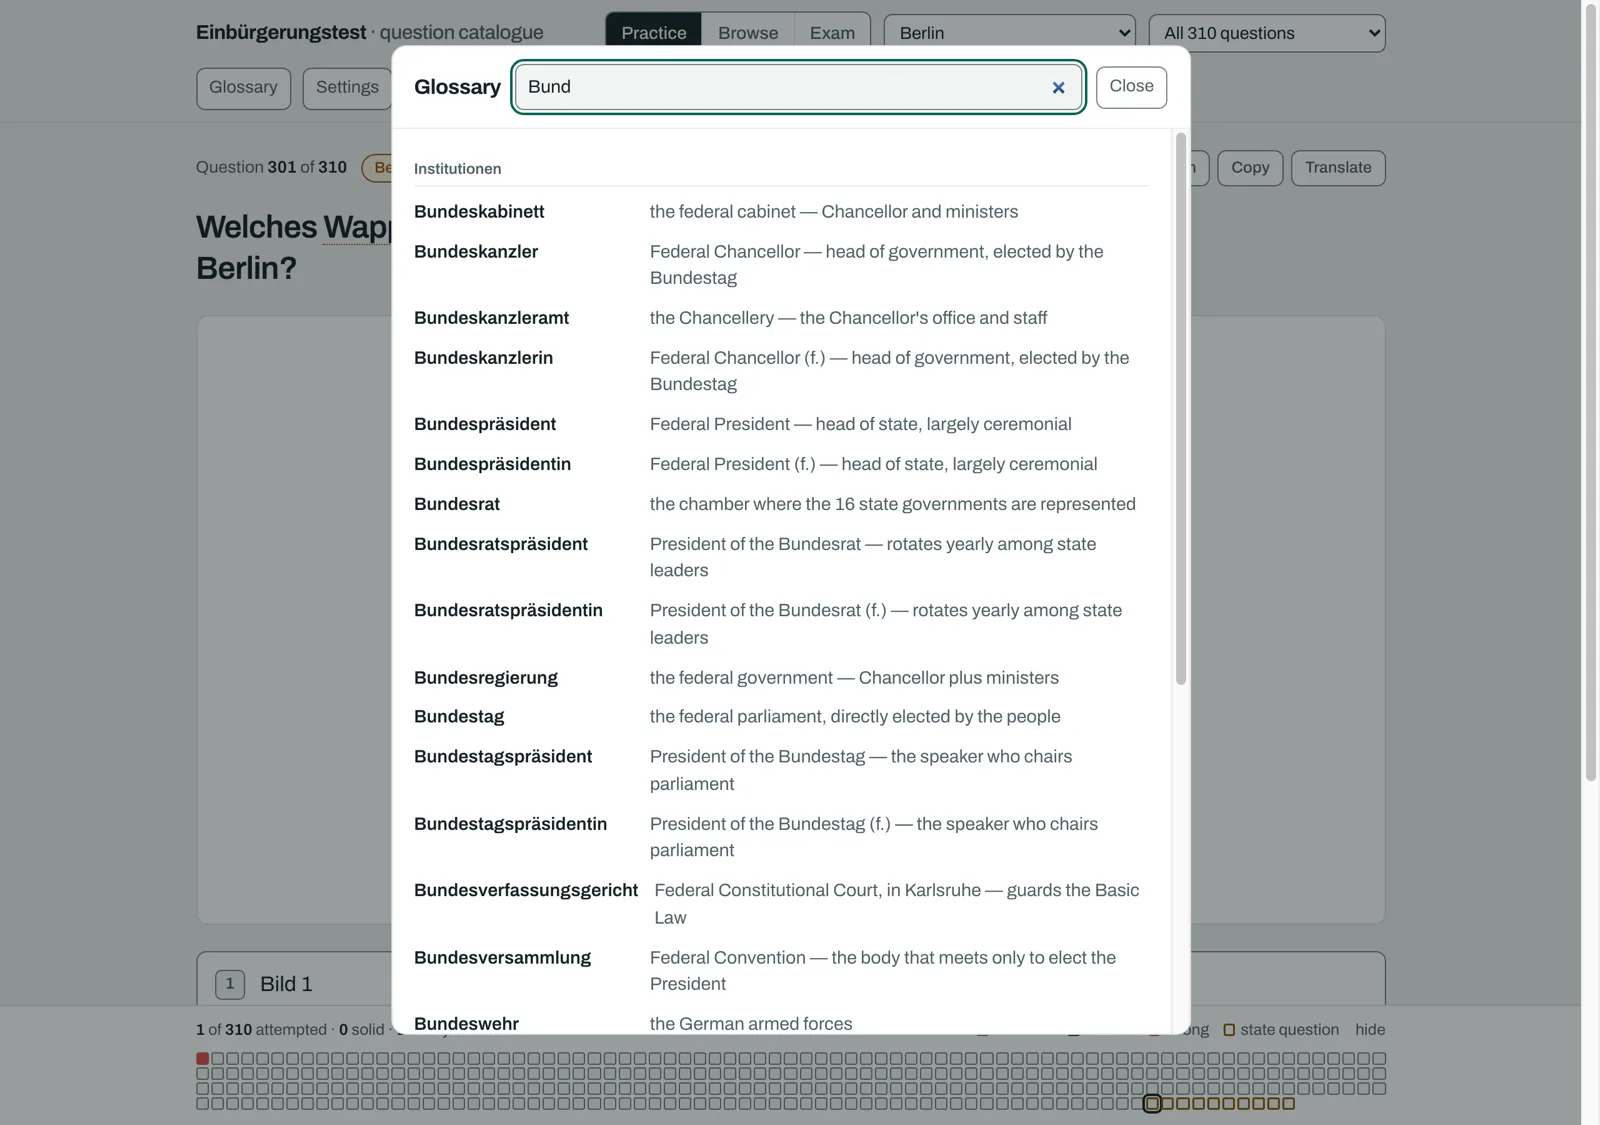
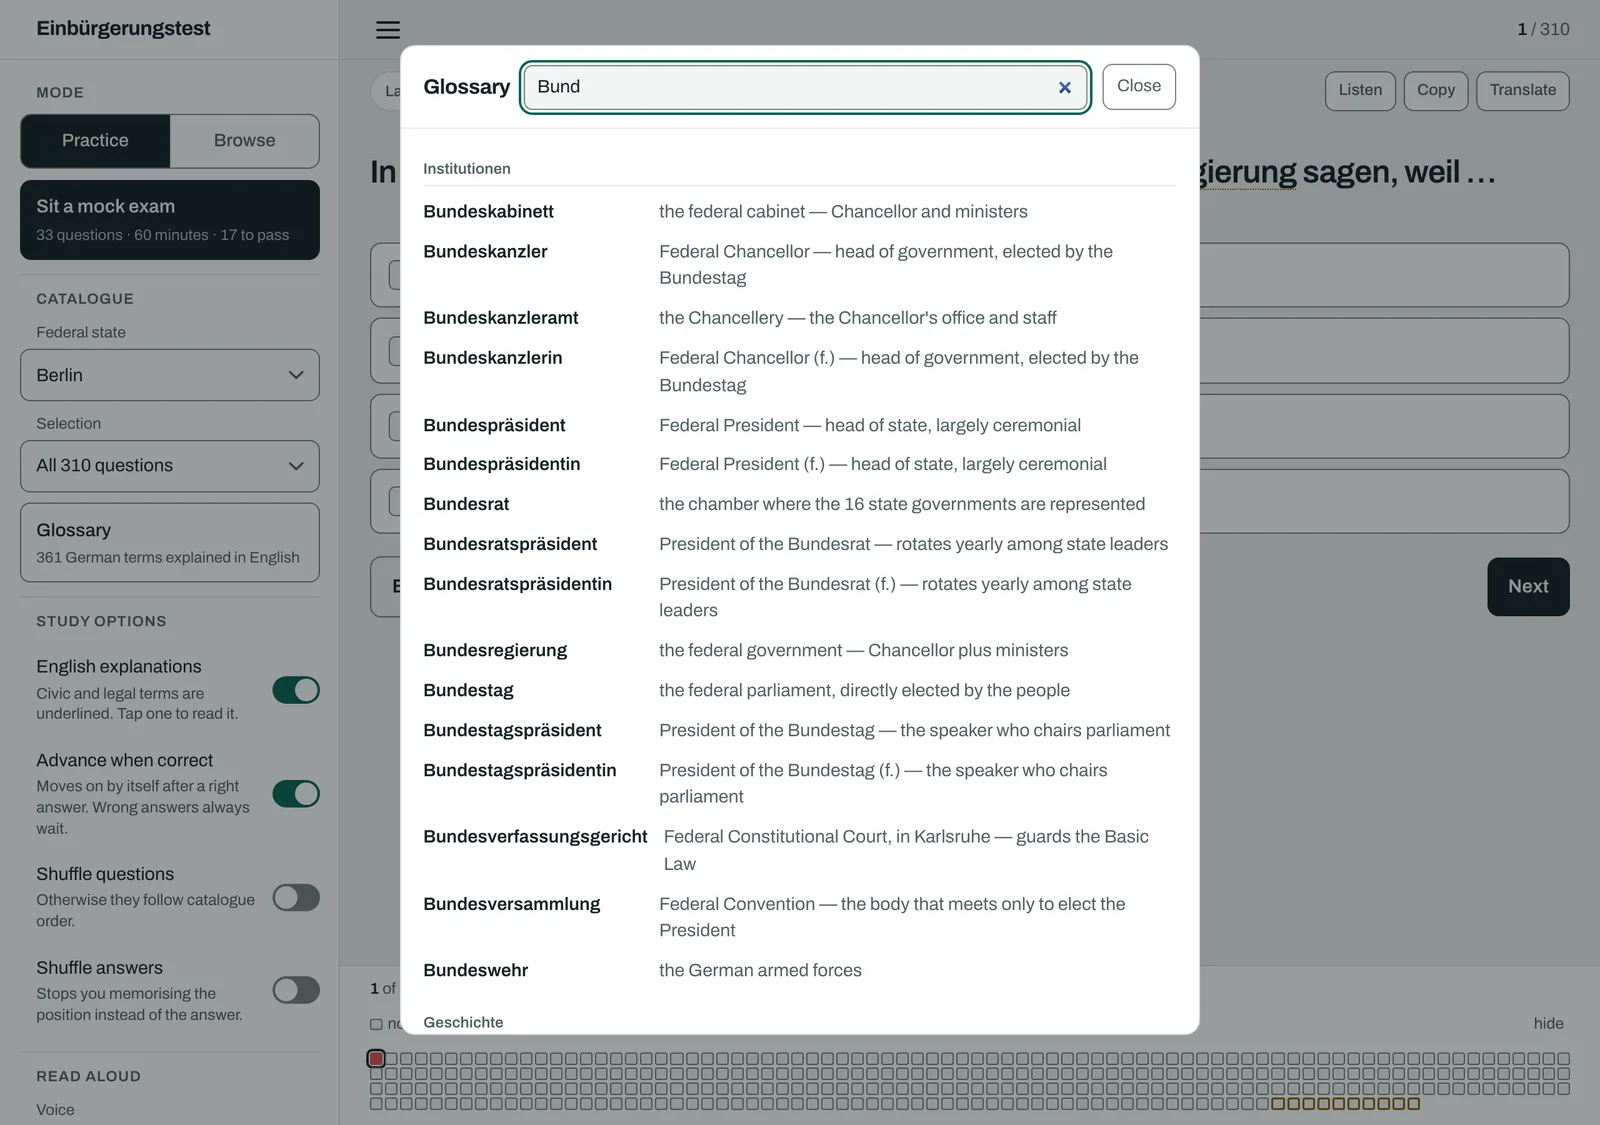
📝 docs: re-shoot the screenshots against the layout that ships
All four images predated the drawer/rail refactor and showed a UI that no
longer exists — a horizontal top bar with the mode buttons and both
dropdowns in the header. The README is the first thing a tester sees, so it
was describing a different app.

Recaptured from the running app at 2x and downscaled, so the type stays
crisp: the practice view with a wrong answer beside the correct one and the
310-cell map, Berlin's coat-of-arms question with the four numbered buttons
that are how a picture question is actually answered, the glossary filtered
to Bund, and the phone with its controls collapsed and the progress sheet at
rest.

The first-load badge said 95 KB. Measured gzipped across index.html,
app.css, app.js, the font and both JSON files it is now 97 KB, the refactor
having grown app.js.

diff --git a/README.md b/README.md
@@ -12,7 +12,7 @@ No build step, no server, no account, no tracking. Open it and it works, includi
 ![Questions](https://img.shields.io/badge/questions-460-0B6357?style=flat-square)
 ![Glossary](https://img.shields.io/badge/glossary-361%20terms-0B6357?style=flat-square)
 ![Offline](https://img.shields.io/badge/offline-installable%20PWA-0B6357?style=flat-square)
-![First load](https://img.shields.io/badge/first%20load-95%20KB-0B6357?style=flat-square)
+![First load](https://img.shields.io/badge/first%20load-97%20KB-0B6357?style=flat-square)
 ![Dependencies](https://img.shields.io/badge/dependencies-none-0B6357?style=flat-square)
 ![Code licence](https://img.shields.io/badge/code-MIT-0B6357?style=flat-square)
 
@@ -61,7 +61,7 @@ states. The exam you sit draws 33 of them.
 <table>
 <tr>
 <td width="50%">
-  <img src="docs/image-question.webp" alt="A picture question asking which coat of arms belongs to Berlin, showing four state coats of arms">
+  <img src="docs/image-question.webp" alt="A picture question asking which coat of arms belongs to Berlin, showing four state coats of arms above a row of four numbered buttons">
   <p align="center"><em>Picture questions, including all 16 states' coats of arms</em></p>
 </td>
 <td width="50%">
@@ -73,7 +73,7 @@ states. The exam you sit draws 33 of them.
 
 ## On your phone
 
-<img src="docs/mobile.webp" alt="The app on a phone, with the layout adapted to a narrow screen" width="300" align="right">
+<img src="docs/mobile.webp" alt="The app on a phone: the controls collapsed behind a menu button, an answered question with the wrong choice in red and the correct one in green, and the progress sheet resting at the bottom" width="300" align="right">
 
 Open the link and use **Add to Home Screen**. It then launches like an app and works with no
 connection.
